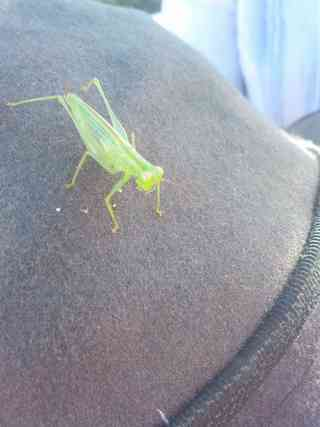
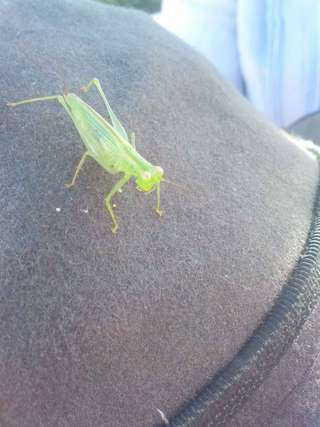
some small images

diff --git a/Gruntfile.js b/Gruntfile.js
@@ -19,11 +19,12 @@ module.exports = function(grunt) {
             */
             width: 320,
             suffix: "small",
-            quality: 30
+            quality: 60
+            /* 30 is a bit rubbish */
           },{
             width: 640,
             suffix: "large",
-            quality: 50
+            quality: 60
           },{
             width: 1024,
             suffix: "x2",
